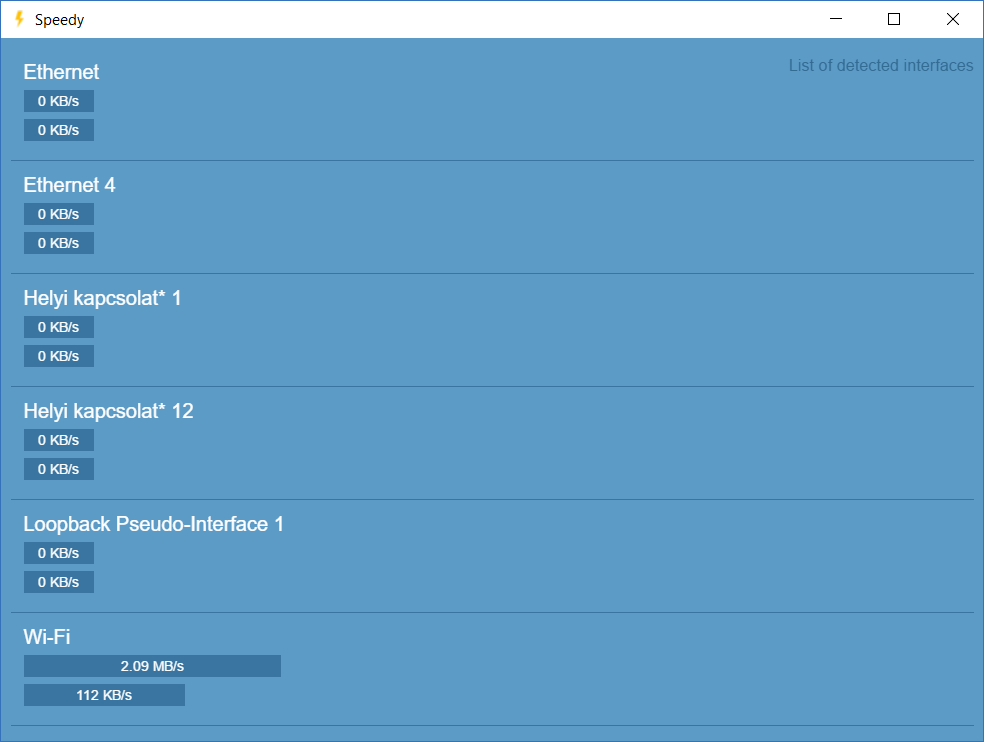
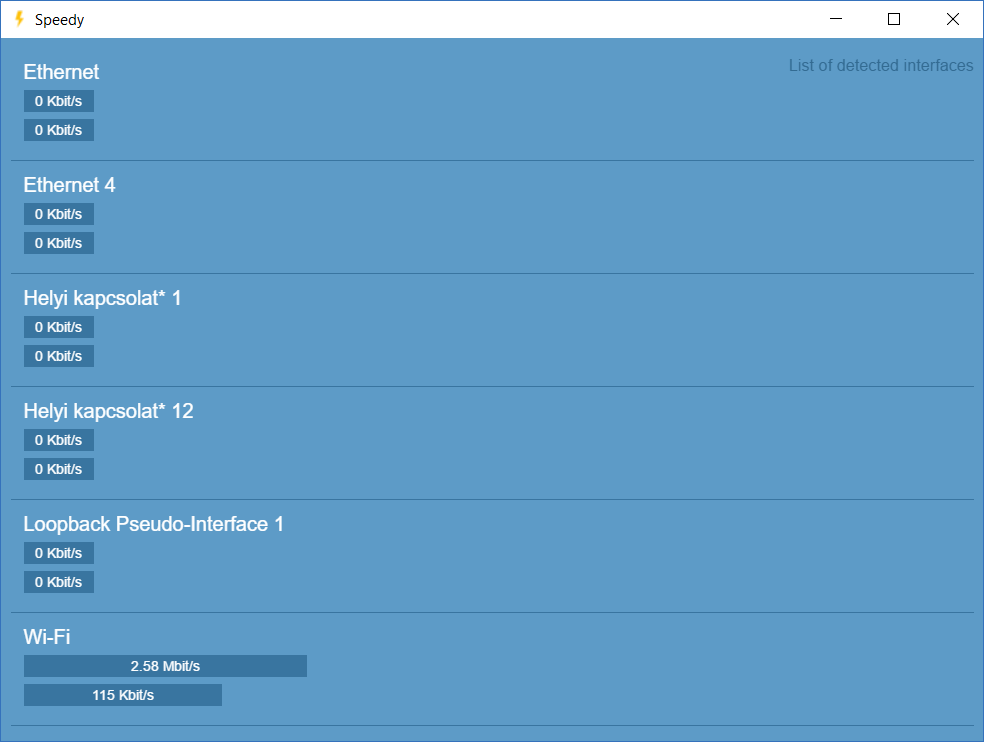
Core refactor

diff --git a/Speedy.Core/NetworkMonitorItem.cs b/Speedy.Core/NetworkMonitorItem.cs
@@ -10,8 +10,6 @@ namespace Speedy.Core
     public class NetworkMonitorItem
     {
         private readonly NetworkInterface _networkInterface;
-        private CancellationTokenSource _cancellation;
-
         private long _downloadMemo;
         private long _uploadMemo;
 
@@ -20,49 +18,12 @@ namespace Speedy.Core
             _networkInterface = networkInterface ?? throw new NullReferenceException(nameof(networkInterface));
         }
 
-        public void Start()
-        {
-            _cancellation = new CancellationTokenSource();
-            Task.Run(() => Loop(_cancellation.Token));
-        }
-
-        public void Stop()
-        {
-            if(_cancellation != null)
-            {
-                _cancellation.Cancel();
-            }
-        }
-
-        private async void Loop(CancellationToken token)
-        {
-            while(true)
-            {
-                try 
-                {
-                    if(token.IsCancellationRequested)
-                    {
-                        DownloadRate = 0;
-                        UploadRate = 0;
-                        break;
-                    }
-
-                    await Task.Delay(TimeSpan.FromSeconds(1), token);
-                    UpdateRates();
-                } 
-                catch(Exception)
-                {
-                }
-            }
-        }
-
-        private void UpdateRates()
+        public void Measure()
         {
             var statistics = _networkInterface.GetIPv4Statistics();
 
             DownloadRate =  statistics.BytesReceived - _downloadMemo;
             UploadRate = statistics.BytesSent - _uploadMemo;
-
             _downloadMemo = statistics.BytesReceived;
             _uploadMemo = statistics.BytesSent;
         }

diff --git a/Speedy.Core/NetworkMonitorLoop.cs b/Speedy.Core/NetworkMonitorLoop.cs
@@ -16,16 +16,15 @@ namespace Speedy.Core
                 .ToList();
 
             var monitor = new NetworkMonitor(interfaces);
-            monitor.Start();
 
             while (true)
             {
                 if(token.IsCancellationRequested)
                 {
-                    monitor.Stop();
                     token.ThrowIfCancellationRequested();
                 }
 
+                monitor.Measure();
                 await Task.Delay(Interval);
 
                 var data = interfaces.Select(i => monitor.GetTransferInfo(i.Name))

diff --git a/Speedy.Core/NetworkTransferInfo.cs b/Speedy.Core/NetworkTransferInfo.cs
@@ -5,8 +5,8 @@ namespace Speedy.Core
         public string InterfaceName { get; set; }
         public long Download { get; set; }
         public long Upload { get; set; }
-        public long DownloadInKiloBit => Download / 1024 * 8;
-        public long UploadInKiloBit => Upload / 1024 * 8;
+        public int DownloadInKiloBit => (int)(Download / 1024f * 8);
+        public int UploadInKiloBit => (int)(Upload / 1024f * 8);
         public NetworkTransferInfo()
         {
             

diff --git a/Speedy.Core/NetworkMonitor.cs b/Speedy.Core/NetworkMonitor.cs
@@ -21,14 +21,9 @@ namespace Speedy.Core
                 .ToList();               
         }
 
-        public void Start()
+        public void Measure()
         {
-            _monitors.ForEach(i => i.Start());
-        }
-
-        public void Stop()
-        {
-            _monitors.ForEach(i => i.Stop());
+            _monitors.ForEach(i => i.Measure());
         }
 
         public NetworkTransferInfo GetTransferInfo(string interfaceName)

diff --git a/README.md b/README.md
@@ -7,5 +7,6 @@ Speedy is a super simple Electron.NET experiment that trying to measure your net
 * ASP .NET Core
 * plain Javascript (ES6)
 
+
 ### Screenshot
 ![image](screenshot.png)
